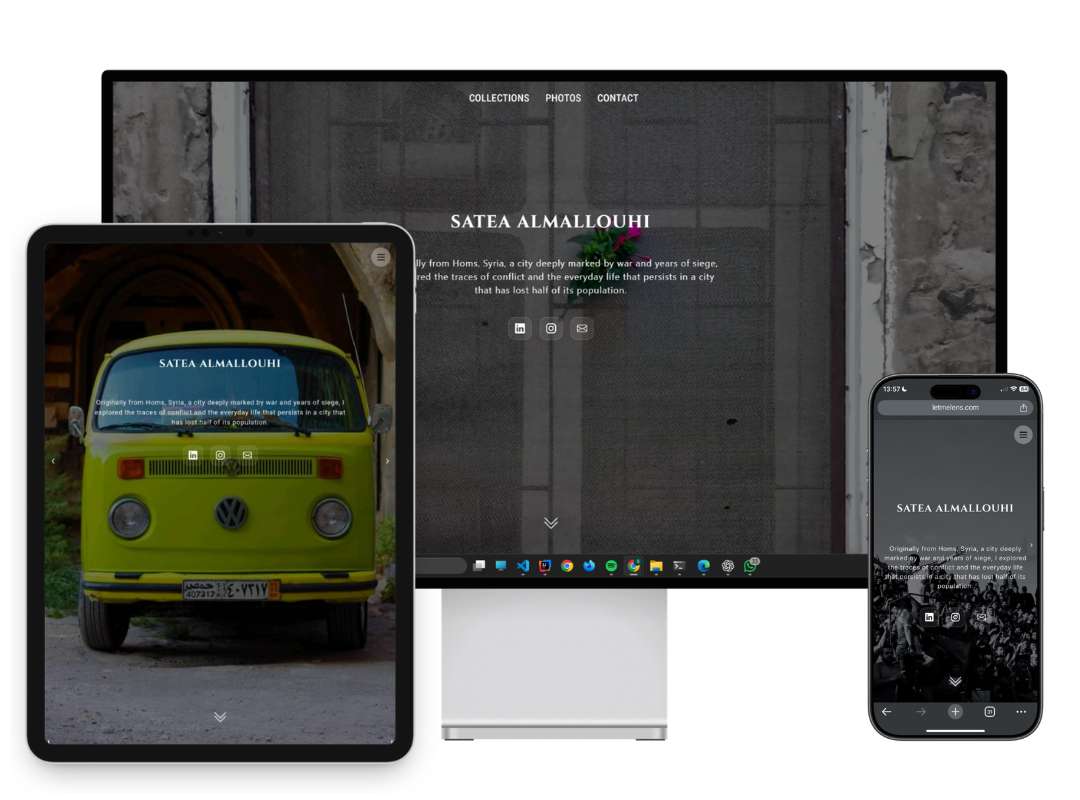
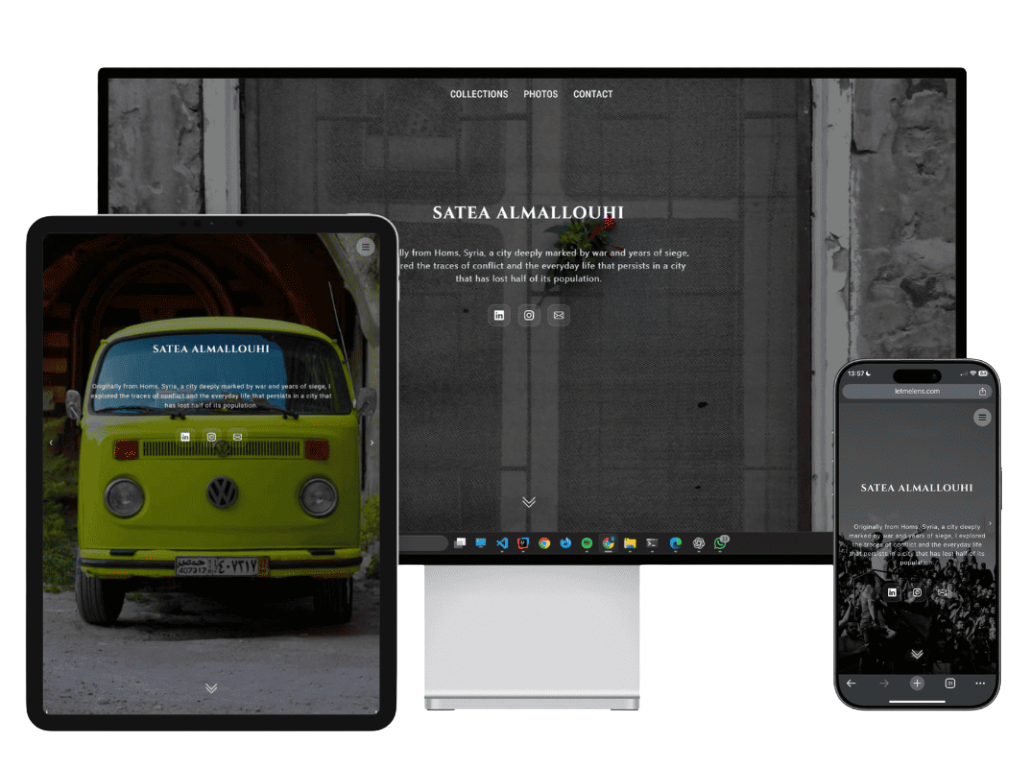
adding styling and fixing grammer

diff --git a/frontend/src/pages/gallery/theme-one/profile/ProfilePage.tsx b/frontend/src/pages/gallery/theme-one/profile/ProfilePage.tsx
@@ -125,7 +125,7 @@ return (
     {(albums.length !== 0 || canManage) && (
       <section className="hp-section-album"  id="albums">
       <header className="hp-head-album">
-        <h1 className="hp-title">Collecitons</h1>
+        <h1 className="hp-title">collections</h1>
       </header>
       {albums.length !== 0 ? (
         <AlbumsRow albums={albums} />

diff --git a/frontend/src/pages/gallery/theme-one/album/components/AlbumInfo.css b/frontend/src/pages/gallery/theme-one/album/components/AlbumInfo.css
@@ -20,7 +20,7 @@
 }
 
 .hero-info__background {
-  backdrop-filter: blur(10px);
+
   border-radius: 18px;
 }
 
@@ -44,7 +44,7 @@
 
 .album-info__description {
   margin: 5vh auto 0 auto;
-  background-color: rgba(0, 0, 0, 0.401);
+ 
   padding: 10px;
   font-size: clamp(11.5px, 1.4vw, 15px);
   max-width: clamp(40ch, 80vw,80ch);

diff --git a/frontend/src/pages/home/HomePage.css b/frontend/src/pages/home/HomePage.css
@@ -270,7 +270,9 @@
    bottom: 5%;
    left: 50%;
 }
-
+.scroll-indicator-home:hover {
+ color: #22515f;
+}
 /* Footer styles */
 .home-footer {
    font-size: 0.75rem;
@@ -293,7 +295,7 @@
 }
 
 .home-footer__link:hover {
-   color: #111827;
+   color: #4fb9d6;
 }
 
 @media (prefers-reduced-motion: reduce) {
